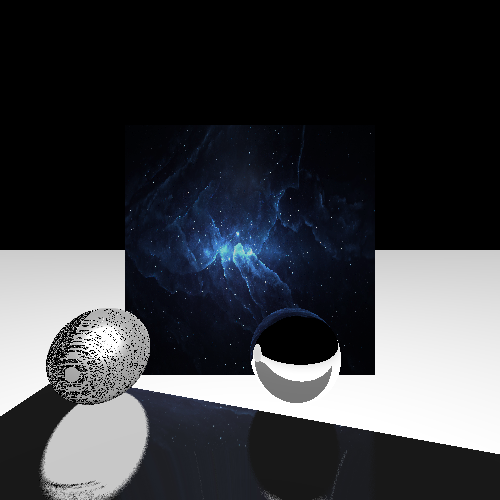
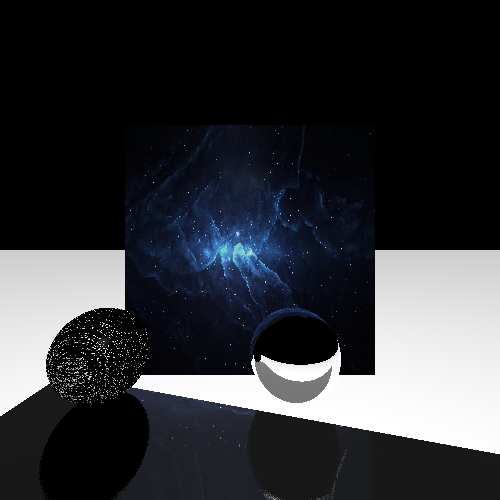
f

diff --git a/src/noiseTexture.py b/src/noiseTexture.py
@@ -1,10 +1,17 @@
 import numpy as np
 from random import uniform
 from math import *
+from PIL import Image
 
 class NoiseText:
 
-    def __init__(self, priori1, priori2, rng = 2000):
+    def __init__(self, priori1, priori2, rng = 2000, text=  None):
+        self.text = text
+        if text != None : 
+            print self.text
+            self.text = Image.open(self.text)
+            self.h = self.text.size[1]
+            self.text = self.text.load()
         self.x = {} 
         self.y = {} 
         self.z = {}
@@ -61,4 +68,10 @@ class NoiseText:
         y0 = lerp(fy, x0, x1)
         y1 = lerp(fy, x2, x3)
         z = lerp(fz, y0, y1)
-        return z
+        if self.text == None :
+            return z
+        z += 1.0
+        temp = z / 2.0 * self.h
+        temp = self.text[0,temp]
+        ret = np.array([float(temp[0]) / 255, float(temp[1]) / 255, float(temp[2]) / 255])
+        return ret

diff --git a/src/Sphere.py b/src/Sphere.py
@@ -39,7 +39,7 @@ class Sphere:
         material: tuple representing an RGB color with values in [0,255]
     """
     kEpsilon = 0.0000001
-    def __init__(self,r,cntr,mat, ka, kd, ks, matr, ref, name, noise = False, priori1 = None , priori2 = None, trans = None, transDeg = 0.0, glossy = None):
+    def __init__(self,r,cntr,mat, ka, kd, ks, matr, ref, name, noise = False, priori1 = None , priori2 = None, trans = None, transDeg = 0.0, glossy = None, noisyText = None):
         """Initializes sphere attributes"""
         self.glossy = glossy
         self.name = name
@@ -47,7 +47,7 @@ class Sphere:
         self.r=r
         self.noise = None
         self.trans = trans
-        if noise : self.noise = NoiseText(priori1, priori2, rng = self.r + 5)
+        if noise : self.noise = NoiseText(priori1, priori2, rng = self.r + 5, text = noisyText)
         self.c=cntr
 	self.ref = ref
         self.color =mat

diff --git a/src/RayTracer.py b/src/RayTracer.py
@@ -92,7 +92,7 @@ p = Plane(point, normal, np.array([1.0,1.0,1.0]),1.0 ,1.0,0.05,150, 0.6, "plane1
 tree.insert(p)
 radius = 3
 center = np.array([-10.0, -7.0, -17.0])
-s = Sphere(radius, center, np.array([0.289, 0.2845, 0.3779]), 1.0, 1.0, 1.0, 4, 0.0, "sphere1", noise = True, priori1 = np.array([0.8, 0.6, 1.0]), priori2 = np.array([1.0, 1.0, 1.0]))
+s = Sphere(radius, center, np.array([0.289, 0.2845, 0.3779]), 1.0, 1.0, 1.0, 4, 0.0, "sphere1", noise = True, priori1 = np.array([0.8, 0.6, 1.0]), priori2 = np.array([1.0, 1.0, 1.0]), noisyText = "noisetext.png")
 tree.insert(s)
 
 center = np.array([3.0, -7.0, -17.0])
